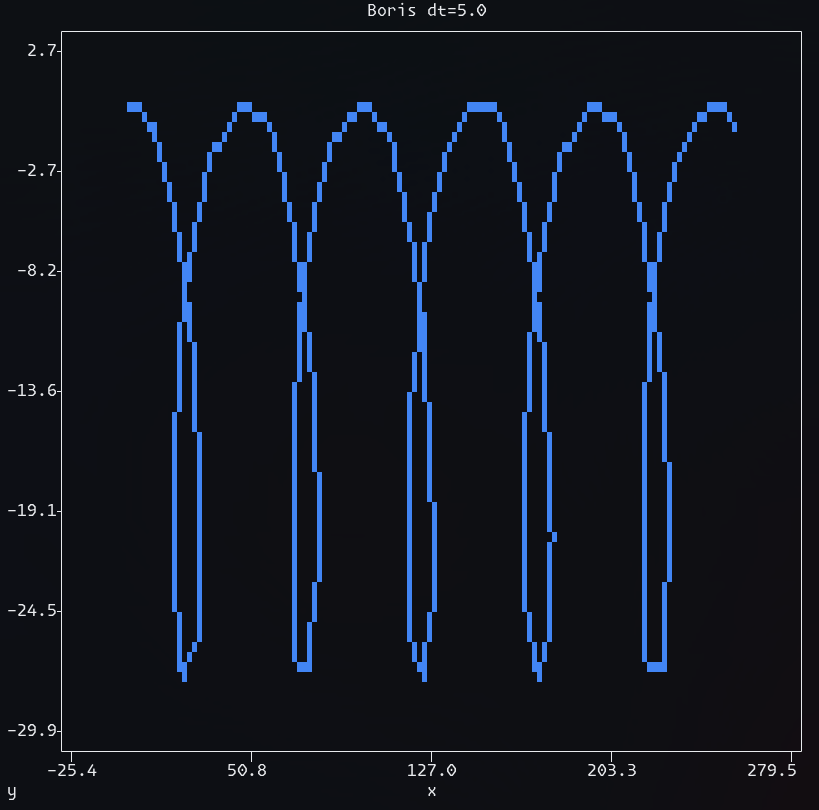
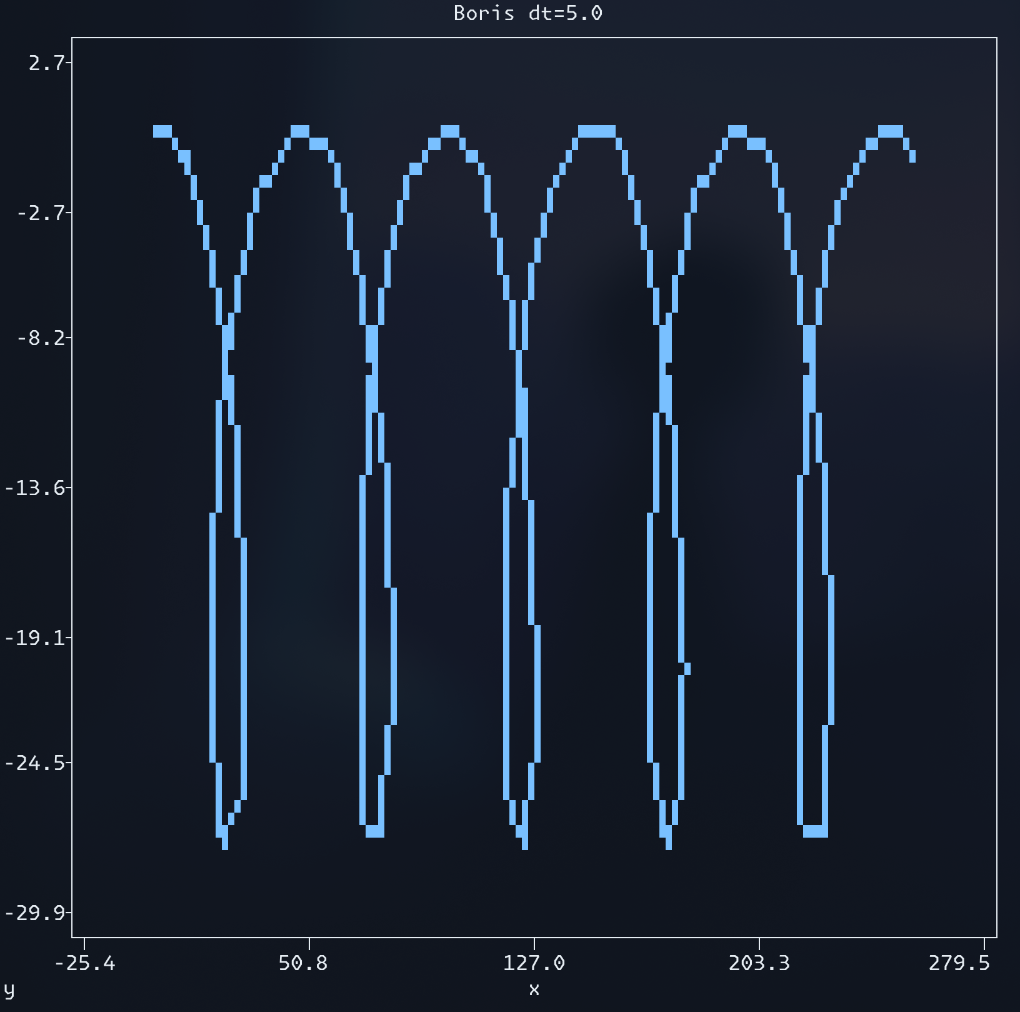
details

diff --git a/README.md b/README.md
@@ -26,23 +26,32 @@ python3 push.py [ARGS]
 
 ### examples
 
-```sh
-python push.py --method boris --dt 5.0 --size 80 40 --u0 20.0 0.0 0.0 --tmax 500 --emag 0.5
-```
-
+<details>
+<summary>
+<pre>
+python push.py --method boris --dt 5.0 --size 80 40 --u0 20.0 0.0 0.0 --tmax 500 --e 0.0,0.5,0.0 --b 0.0,0.0,1.0
+</pre>
+</summary>
 ![demo-1](demos/demo-1.png)
+</details>
 
-```sh
+<details>
+<summary>
+<pre>
 python push.py --method implicit --u0 0.05 0.1 0.0 --tmax 150 --preset mirror --dt 0.05
-```
-
+</pre>
+</summary>
 ![demo-2](demos/demo-2.png)
+</details>
 
-```sh
+<details>
+<summary>
+<pre>
 python push.py --method boris --u0 0.0 1.0 0.0 --x0 0.0 0.0 0.0 --tmax 40 --preset betatron --dt 0.02
-```
-
+</pre>
+</summary>
 ![demo-3](demos/demo-3.png)
+</details>
 
 ### all options
 
